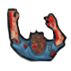
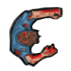
zombies facing the player, speeds tuned

diff --git a/Classes/HelloWorldScene.cpp b/Classes/HelloWorldScene.cpp
@@ -60,7 +60,7 @@ bool HelloWorld::init()
     CCSprite* joystickBotonMovimiento = dxco::SpriteUtil::create("boton.png", visibleSize.width * 0.15 + 20,  40, 40, 40);
     this->addChild(joystickBotonMovimiento);
 
-    CCSprite* spriteGuy = dxco::SpriteUtil::create("citizenplayershotgun.png", visibleSize.width / 2,  visibleSize.height / 2, 35, 35);
+    CCSprite* spriteGuy = dxco::SpriteUtil::create("citizenplayershotgun.png", visibleSize.width / 2,  visibleSize.height / 2, 40, 40);
     this->addChild(spriteGuy);
     
     std::map<int, dxco::Animation*> animations;

diff --git a/Classes/crimson/Enemy.cpp b/Classes/crimson/Enemy.cpp
@@ -1,5 +1,7 @@
 #include "Enemy.h"
 #include "GameModel.h"
+#include "../dxco/SpriteUtil.h"
+#include "../dxco/MathUtil.h"
 
 namespace dxco {
 
@@ -8,6 +10,10 @@ Enemy::Enemy(GameModel* model, cocos2d::CCSprite* sprite, std::map<int, Animatio
 }
 
 void Enemy::update(float dt) {
+	//look at player
+	float angle = MathUtil::angle(this->getLocation(), this->model->player->getLocation()) * - 57.2957795;
+	SpriteUtil::setAngle(this->sprite, angle);
+	//walk to player
 	this->goTo(this->model->player->getLocation(), ENEMY_SPEED * dt);
 }
 

diff --git a/Classes/crimson/JoystickMovimiento.cpp b/Classes/crimson/JoystickMovimiento.cpp
@@ -9,7 +9,7 @@ JoystickMovimiento::JoystickMovimiento(GameModel* game, cocos2d::CCSprite* sprit
 
 void JoystickMovimiento::onMoved(cocos2d::CCPoint location, float angle, float intensity) {
 	Joystick::onMoved(location, angle, intensity);
-	this->game->player->move(cos(angle) * intensity / 10, sin(angle) * intensity / 10);
+	this->game->player->move(cos(angle) * intensity / 15, sin(angle) * intensity / 15);
 }
 
 } /* namespace dxco */

diff --git a/Classes/dxco/MathUtil.h b/Classes/dxco/MathUtil.h
@@ -10,6 +10,9 @@ namespace dxco {
 class MathUtil {
 public:
 	static float distance(cocos2d::CCPoint a, cocos2d::CCPoint b);
+
+	/* Take the center point as the origin, and get the angle of the vector that
+	 * goes from the origin to the pointA. */
 	static float angle(cocos2d::CCPoint center, cocos2d::CCPoint pointA);
 
 };

diff --git a/Classes/crimson/Enemy.h b/Classes/crimson/Enemy.h
@@ -1,7 +1,7 @@
 #ifndef ENEMY_H_
 #define ENEMY_H_
 
-#define ENEMY_SPEED 100
+#define ENEMY_SPEED 30
 
 #include "cocos2d.h"
 #include "../dxco/Item.h"
